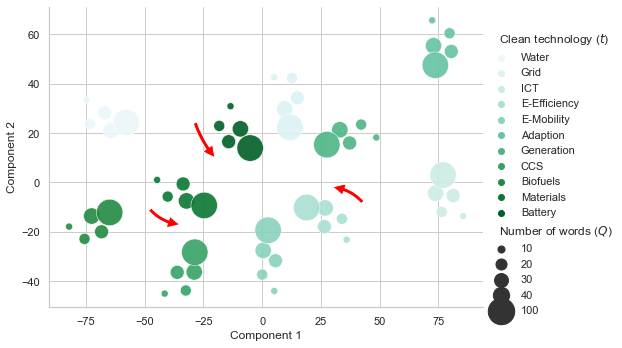
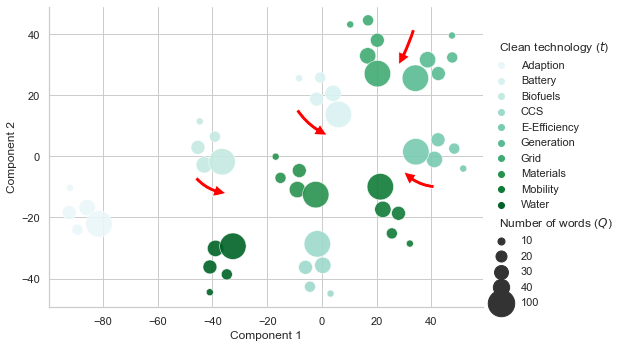
proceeded with paper code

diff --git a/02_Code/paper.py b/02_Code/paper.py
@@ -17,9 +17,6 @@
 # # Mapping technologies to business models: 
 # ## An application to clean technologies and entrepreneurship
 # Code supporting the findings in the paper
-# -
-
-# !pip install --no-deps sentence-transformers tqdm numpy scikit-learn scipy nltk transformers tokenizers requests
 
 # +
 import pandas as pd
@@ -73,11 +70,12 @@ tech2market = dict(zip(df_map['CPC'], df_map['ABBREVIATION']))
 cleantech_fields = list(set(tech2market.values()))
 # remove ICT
 cleantech_fields = [field for field in cleantech_fields if field != 'ICT']
+cleantech_fields = ['Adaption', 'Battery', 'Biofuels', 'CCS', 'E-Efficiency', 'Generation', 'Grid', 'Materials', 'E-Mobility', 'Water']
 print(cleantech_fields)
 
 # Create dichotomous columns for each technology class (cleantech and non-cleantech).
 
-techclasses = ['A', 'B', 'C', 'D', 'E', 'F', 'G', 'H', 'Biofuels', 'Battery', 'CCS', 'Water', 'Adaption', 'E-Efficiency', 'Materials', 'E-Mobility', 'Grid', 'Generation']
+techclasses = ['A', 'B', 'C', 'D', 'E', 'F', 'G', 'H', 'Adaption', 'Battery', 'Biofuels', 'CCS', 'E-Efficiency', 'Generation', 'Grid', 'Materials', 'E-Mobility', 'Water']
 
 df_pat[techclasses] = 0
 
@@ -87,8 +85,10 @@ for techclass in techclasses:
 
 # Add a column reflecting if the patent has been assigned to *any* non-cleantech class.
 
+# + tags=[]
 df_pat['non-cleantech'] = df_pat[set(techclasses).difference(cleantech_fields)].apply(sum, axis=1) > 0
 df_pat['non-cleantech'] = df_pat['non-cleantech'].map({True: 1, False: 0})
+# -
 
 # Load similarity measures specifically designed for dichotomous variables (following the logic of F-scores).
 
@@ -112,19 +112,24 @@ corr_matrix
 
 # Correlation as figure.
 
+corr_matrix
+
 # + tags=[]
-sns.set_theme(style="white")
+sns.set_theme(style="white", font_scale=1.6)
 
 # Compute the correlation matrix
-corr = corr_matrix[techclasses]
-# corr = corr_matrix[cleantech_fields]
+#corr = corr_matrix[techclasses]
+corr = corr_matrix[cleantech_fields]
 
 # Generate a mask for the upper triangle
-mask = np.hstack(
-     (np.zeros_like(corr[set(techclasses).difference(cleantech_fields)], dtype=bool),
-     np.triu(np.ones_like(corr[cleantech_fields], dtype=bool)))
-)
-#mask = np.triu(np.ones_like(corr[cleantech_fields], dtype=bool))
+#mask = np.hstack(
+#     (np.zeros_like(corr[set(techclasses).difference(cleantech_fields)], dtype=bool),
+#     np.triu(np.ones_like(corr[cleantech_fields], dtype=bool)))
+#)
+mask = np.triu(np.ones_like(corr[cleantech_fields], dtype=bool))
+
+# Name cleaning
+corr.rename(index={'E-Mobility': 'Mobility'}, columns={'E-Mobility': 'Mobility'}, inplace=True)
 
 # Set up the matplotlib figure
 f, ax = plt.subplots(figsize=(10, 15))
@@ -135,6 +140,42 @@ cmap = sns.cubehelix_palette(start=2, rot=0, dark=0.2, light=1.8, reverse=False,
 # Draw the heatmap with the mask and correct aspect ratio
 heatm = sns.heatmap(corr,
                     mask=mask,
+                    cmap=cmap,
+                    #vmax=.3,
+                    vmin=0,
+                    center=0,
+                    square=True,
+                    linewidths=.5,
+                    cbar_kws={"shrink": .4})
+
+plot = heatm.set_yticklabels(heatm.get_yticklabels(), rotation=0)
+plot = heatm.set_xticklabels(heatm.get_xticklabels(), rotation=45, ha="right")
+
+# +
+sns.set_theme(style="white", font_scale=1.6)
+
+# Compute the correlation matrix
+#corr = corr_matrix[techclasses]
+corr = corr_matrix[techclasses[0:8]]
+
+# Generate a mask for the upper triangle
+#mask = np.hstack(
+#     (np.zeros_like(corr[set(techclasses).difference(cleantech_fields)], dtype=bool),
+#     np.triu(np.ones_like(corr[cleantech_fields], dtype=bool)))
+#)
+
+# Name cleaning
+corr.rename(index={'E-Mobility': 'Mobility'}, columns={'E-Mobility': 'Mobility'}, inplace=True)
+
+# Set up the matplotlib figure
+f, ax = plt.subplots(figsize=(10, 15))
+
+# Generate a custom diverging colormap
+cmap = sns.cubehelix_palette(start=2, rot=0, dark=0.2, light=1.8, reverse=False, as_cmap=True)
+
+# Draw the heatmap with the mask and correct aspect ratio
+heatm = sns.heatmap(corr,
+                    #mask=mask,
                     cmap=cmap,
                     #vmax=.3,
                     vmin=0,
@@ -246,7 +287,7 @@ from sklearn.manifold import TSNE
 # Technology Embedding
 def technology2embedding(df, model, technology, n_words):
     semantic_tech = ' '.join(str(word).lower() for word in list(df.loc[df.Topic==technology].head(n_words).Word.values))
-    embedding = model.encode(semantic_tech).reshape(1, -1)
+    embedding = model.encode(semantic_tech)
 
     return(embedding)
 
@@ -277,8 +318,10 @@ def tsne(df, model, technology_labels, technology_lengths):
 
 df_tsne = tsne(df=df_topic_words,
                model=model,
-               technology_labels=['Water', 'Grid', 'ICT', 'E-Efficiency', 'E-Mobility', 'Adaption', 'Generation', 'CCS', 'Biofuels', 'Materials', 'Battery'], 
+               technology_labels=['Adaption', 'Battery', 'Biofuels', 'CCS', 'E-Efficiency', 'Generation', 'Grid', 'Materials', 'E-Mobility', 'Water'], 
                technology_lengths=[10,20,30,40,100])
+
+df_tsne.loc[df_tsne.iloc[:,0]=='E-Mobility','Clean technology ($t$)'] = 'Mobility'
 
 # +
 sns.set(style="whitegrid") 
@@ -302,14 +345,27 @@ sns.relplot(x = "Component 1", y = "Component 2",
 #g.ax.xaxis.grid(True, "minor", linewidth=.25)
 #g.ax.yaxis.grid(True, "minor", linewidth=.25)
 #g.despine(left=True, bottom=True)
-plt.annotate('', xy=(30,-2), xytext=(+30,-15), textcoords='offset points',
+plt.annotate('', xy=(30,-5), xytext=(+30,-15), textcoords='offset points',
+             fontsize=16, arrowprops=dict(facecolor='red', connectionstyle='arc3,rad=-.2'))
+
+plt.annotate('', xy=(-35,-12), xytext=(-30,+15), textcoords='offset points',
              fontsize=16, arrowprops=dict(facecolor='red', connectionstyle='arc3,rad=.2'))
 
-plt.annotate('', xy=(-35,-17), xytext=(-30,+15), textcoords='offset points',
-             fontsize=16, arrowprops=dict(facecolor='red', connectionstyle='arc3,rad=.2'))
+plt.annotate('', xy=(2,7), xytext=(-30,+25), textcoords='offset points',
+             fontsize=16, arrowprops=dict(facecolor='red', connectionstyle='arc3,rad=.15'))
 
-plt.annotate('', xy=(-20,10), xytext=(-20,+35), textcoords='offset points',
-             fontsize=16, arrowprops=dict(facecolor='red', connectionstyle='arc3,rad=.1'))
+plt.annotate('', xy=(28,30), xytext=(15,+35), textcoords='offset points',
+             fontsize=16, arrowprops=dict(facecolor='red', connectionstyle='arc3,rad=-.05'))
+# -
+df_pat = df_pat.loc[df_pat.LEMMAS.apply(len)>0]
+
+abstracts = df_pat.ABSTRACT.values
+abstracts.shape
+
+embeddings = model.encode(abstracts[:1000],  show_progress_bar=True)
+
+embeddings.shape[0]/abstracts.shape[0]*100
+
 # + [markdown] tags=[] jp-MarkdownHeadingCollapsed=true
 # # Proximity measure 
 
@@ -622,24 +678,65 @@ df_CCS.merge(df_clean[['ID', 'SHORT_DESCRIPTION']], left_on='COMPANY', right_on=
 
 # Load embedded texts.
 
-import pyreadr
+df_startup = pd.read_csv(here("01_Data/02_Firms/03_StartupPanel/df_gp_impute.txt"), sep="\t")
+df_startup.rename(columns={'E_Mobility': 'E-Mobility', 'E_Efficiency': 'E-Efficiency'}, inplace=True)
+df_startup.shape
 
-df_startup = pyreadr.read_r(here("01_Data/02_Firms/03_StartupPanel/df_gp.rds"))
+# + [markdown] tags=[]
+# ## Descriptives company descriptions
+# -
 
-df_startup.toframe()
+print(f"There are {len(df_startup)} distinct start-ups in the survey for which business summaries exist.")
 
-pd.DataFrame(df_startup, index)
+from util import nlp
+tqdm.pandas()
 
-pal = sns.cubehelix_palette(n_colors=10, start=2, rot=0, dark=0.35, light=0.9, reverse=False, as_cmap=False)
+df_startup['TOKEN_LEN'] = df_startup.text_en.progress_apply(lambda x: len(nlp(x)))
+df_startup['DIGIT_LEN'] = df_startup.text_en.progress_apply(lambda x: len(x))
+df_startup['TOKENS'] = df_startup.text_en.progress_apply(lambda x: [token for token in nlp(x)])
+
+df_startup.TOKEN_LEN.describe()
+
+# Vocabulary size
+df_startup = df_startup.reset_index(drop=True)
+vocab_list = []
+for i in range(df_startup.shape[0]):
+    temp = df_startup.iloc[i].TOKENS
+    vocab_list.extend(temp)
+len(set(vocab_list))
+
+# ## Cleantech entrants
+
+cleantech_fields = ['Adaption', 'Battery', 'Biofuels', 'CCS', 'E-Efficiency', 'Grid', 'Generation', 'Materials', 'E-Mobility' , 'Water']
+
+df_prox = pd.melt(df_startup[cleantech_fields], var_name="Clean technology field", value_name="Technological proximity")
+df_prox.loc[df_prox["Technological proximity"].notnull()]
+
+df_prox.loc[df_prox.iloc[:,0]=='E-Mobility','Clean technology field'] = 'Mobility'
 
 # +
-plt.figure(figsize = (12, 8))
-
+plt.rcParams['text.usetex'] = True
+plt.figure(figsize = (9, 5))
 sns.set(style="whitegrid")
+palette = sns.cubehelix_palette(n_colors=10, start=2, rot=0, dark=0.35, light=0.9, reverse=False, as_cmap=False)
 
-
-ax = sns.swarmplot(x="TECHNOLOGY", y="TECHNOLOGY_PROXIMITY", data=df_prox, palette=pal,
-                   dodge=True, alpha=0.5)
-ax = sns.boxplot(x="TECHNOLOGY", y="TECHNOLOGY_PROXIMITY", data=df_prox, showfliers = False, color='lightgray')
-
+#ax = sns.swarmplot(x="Clean technology field", y="Technological proximity", data=df_prox, palette=pal,
+#                   dodge=True, alpha=0.5)
+ax = sns.boxplot(x="Clean technology field", y="Technological proximity", data=df_prox, color='lightgray',
+                linewidth=1, 
+                #whis=(1, 99), 
+                palette=palette, 
+                showfliers=True, 
+                boxprops=dict(alpha=.4), 
+                flierprops=dict(markerfacecolor="r", markersize=5, linestyle='none', markeredgecolor='r', alpha=0.8))
+ax.axhline(y=0.27, xmin=0, xmax=0.03, linestyle='--', linewidth=1, color='r')
+ax.axhline(y=0.27, xmin=0.18, linestyle='--', linewidth=1, color='r')
+ax.text(x=-0.1, y=0.265, s=r'\textsc{TechProx}$_{min}$', fontsize=10)
 plt.show()
+# -
+
+df_startup[['gpkey', 'tech_prox', 'tech', 'text_en']].sort_values('tech_prox', ascending=False).head(20).style
+
+df_startup.tech.value_counts(dropna=False)
+
+print(f"There are {len(df_startup.loc[df_startup.tech_prox>0.27])} distinct start-ups in the survey classified as cleantech.")
